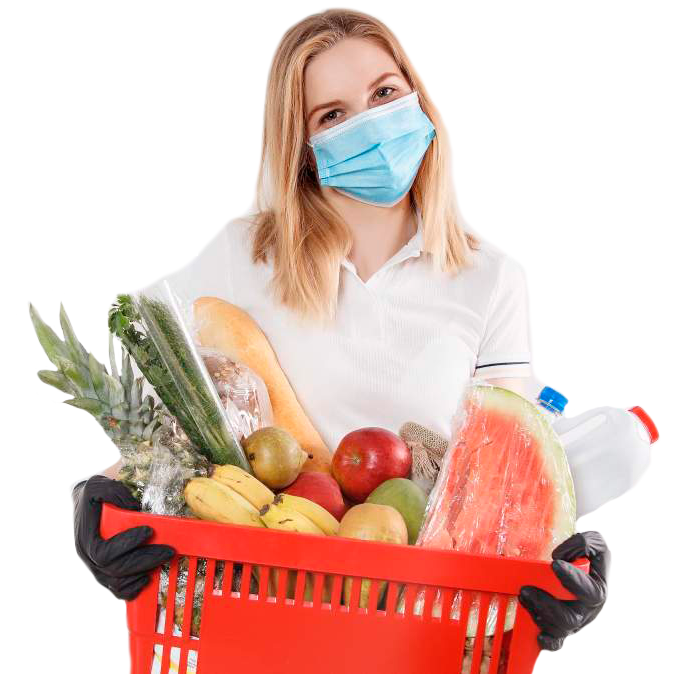
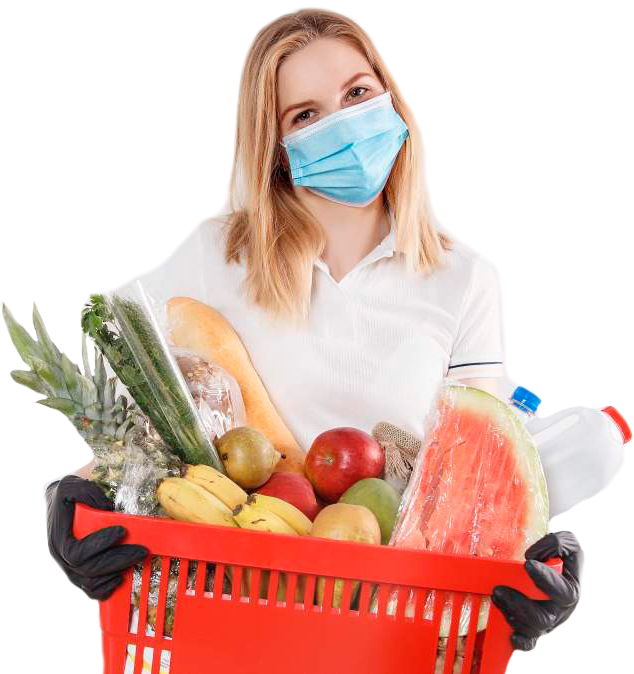
Fix welcome screen
- Cut header image
- remove some paddings

diff --git a/lib/ui/screens/welcome/widgets/header_image.dart b/lib/ui/screens/welcome/widgets/header_image.dart
@@ -22,15 +22,12 @@ class HeaderImage extends StatelessWidget {
               color: MyColors.primary,
               borderRadius: BorderRadius.circular(15),
             ),
-            width: width - 60,
-            margin: const EdgeInsets.fromLTRB(45, 40, 45, 0),
+            width: width,
+            margin: const EdgeInsets.fromLTRB(35, 40, 35, 0),
             height: width - 100,
           ),
         ),
-        Image.asset(
-          "assets/images/woman-welcome.png",
-          width: width - 32,
-        ),
+        Image.asset("assets/images/woman-welcome.png", width: width),
       ],
     );
   }
